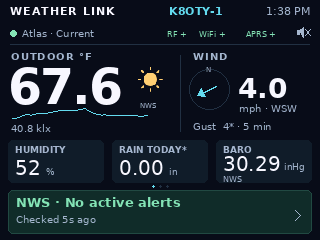
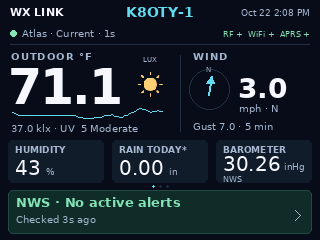
Refresh README live display capture

diff --git a/README.md b/README.md
@@ -58,10 +58,11 @@ Watch/warning colors and stale-data indicators retain their meanings.
 
 ## Live display
 
-![Live CYD Weather Link home screen with Atlas readings, connection status, trends and NWS information](assets/screenshots/live-home-screen.png)
+![Live WX Link display showing Atlas readings, a local lux sky estimate, connection status, trends and NWS pressure](assets/screenshots/live-home-screen.png)
 
-Actual display capture from the owner's PanelLan board running v0.5.3,
-with live Atlas reception. The pictured weather icon and barometer use NWS data; 0.8.0 can optionally use calibrated local lux for current daylight sky art.
+Actual display capture from the owner's PanelLan board running v0.8.0-rc.1 on
+October 22, 2026, with live Atlas reception. The LUX-labeled sun uses the calibrated
+local daylight estimate; the barometer and alert status use NWS data.
 
 ## 433 MHz station and sensor support
 
